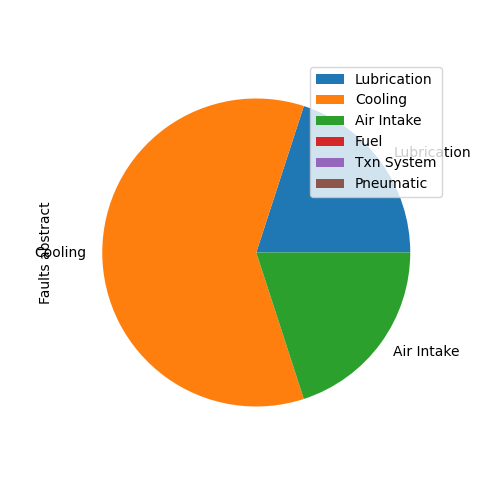
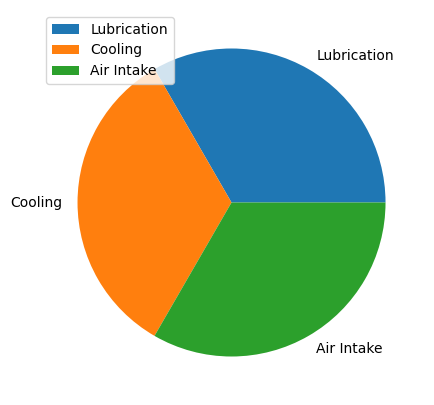
final copy

Changed region(s): [[0.03, 0.0593, 0.9585, 0.8889], [0.1198, 0.0593, 0.1797, 0.2074]]

diff --git a/templates/maps.html b/templates/maps.html
@@ -5,7 +5,11 @@
     <meta charset="UTF-8">
     <meta name="viewport" content="width=device-width, initial-scale=1.0">
     <title>{{ name }}</title>
-
+    <!-- CSS only -->
+    <link href="https://cdn.jsdelivr.net/npm/bootstrap@5.2.0/dist/css/bootstrap.min.css" rel="stylesheet" integrity="sha384-gH2yIJqKdNHPEq0n4Mqa/HGKIhSkIHeL5AyhkYV8i59U5AR6csBvApHHNl/vI1Bx" crossorigin="anonymous">
+    
+    <link rel="stylesheet" href="{{ url_for('static', filename = 'css/style.css')}}">
+    
     <!-- leaflet css  -->
     <link rel="stylesheet" href="https://unpkg.com/leaflet@1.7.1/dist/leaflet.css" />
 
@@ -39,6 +43,14 @@
     <div id="map">
         <div class="leaflet-control coordinate"></div>
     </div>
+
+    <form method='post' action='/maps_view'>
+        <label>Do you add casuality ?</label><br>
+        <input name='LOCATION NAME' type='text' placeholder='Casuality Name' autofocus>
+        <input type='text' name="LANGITUDE" placeholder="LANGITUDE">
+        <input type='text' name="LATITUDE" placeholder="LATITUDE">
+        <input type="submit" value="ADD" class="btn btn-primary">
+    </form>
 </body>
 
 </html>
@@ -51,10 +63,12 @@
 
 
 <script>
-    var api_url = 'http://127.0.0.1:5000/map'
+    var route = 'http://127.0.0.1:5000/';
+    var api_url = route + 'maps'
+    var api_url2 = route + 'maps_view';
 
     // Map initialization 
-    var map = L.map('map').setView([20.5937, 78.9629], 5);
+    var map = L.map('map').setView([28.0229, 73.3119], 5);
     
     //osm layer
     var osm = L.tileLayer('https://{s}.tile.openstreetmap.org/{z}/{x}/{y}.png', {
@@ -85,8 +99,6 @@
         }
         show(data);
     }
-    // Calling that async function
-    getapi(api_url);
     
     // Function to hide the loader
     function hideloader() {
@@ -95,16 +107,23 @@
     function show(data) {
         // Loop to access all rows 
         for (let r of data) {
-            var txt = `
-                <h1>${r[1]}</h1>
-                <p>DET TYPE : ${r[2]}</p>
-                <p>ARMY NO : ${r[5]}</p>
-            `;
-            var marker1 = L.marker([r[3], r[4]]);
-            marker1.bindPopup(txt)
+            var txt = `<h1>${r[1]}</h1>`;
+            if (r.length == 6) {
+                txt += `<p>DET TYPE : ${r[4]}</p>
+                    <p>ARMY NO : ${r[5]}</p>
+                `;
+            }
+
+            console.log(r)
+            var marker1 = L.marker([r[2], r[3]]);
+            marker1.bindPopup(txt).openPopup
             marker1.addTo(map)
         }
-        // Setting innerHTML as tab variable
-        document.getElementById("map").innerHTML = tab;
     }
+    getapi(api_url);
+    getapi(api_url2)
+    map.on('mousemove', function (e) {
+        document.getElementsByClassName('coordinate')[0].innerHTML = 'lat: ' + e.latlng.lat + 'lng: ' + e.latlng.lng;
+        console.log('lat: ' + e.latlng.lat, 'lng: ' + e.latlng.lng)
+    })
 </script>

diff --git a/app.py b/app.py
@@ -264,16 +264,35 @@ def battle_map(name):
         name = (" ".join(name.split('_')).upper() + " MAP")
     )
 
-@app.route('/map')
+@app.route('/maps_view', methods = ("GET", "POST"))
+def map_apis(name = 'maps_view'):
+    headers = ['LOCATION NAME', 'LANGITUDE', 'LATITUDE']
+    if request.method == "POST":
+        print(request.form)
+        add(
+            name, 
+            headers, 
+            request.form
+        )   
+        return redirect('battle_map')
+
+    data = load(
+        table_name = name, 
+        keys = headers, 
+    )
+    print(data)
+    return jsonify(data)
+
+@app.route('/maps')
 def map_api(name = 'dets'):
-    headers = ['DET NAME', 'DET TYPE', 'LONGITUDE', 'LATITUDE', 'ARMY NO']
+    headers = ['DET NAME', 'LONGITUDE', 'LATITUDE', 'DET TYPE', 'ARMY NO']
     data = load(
         table_name = name, 
         keys = headers, 
     )
     
     return jsonify(data)
-
+    
 @app.errorhandler(404)
 def page_not_found(e):
     return render_template('404.html')

diff --git a/data.py b/data.py
@@ -119,6 +119,10 @@ spares = {
     'search_column' : 3,
     'delete_key' : 3,
 }
+maps_view = {
+    'columns' : ['LOCATION NAME', 'LANGITUDE', 'LATITUDE'],
+    'search_column' : 0,
+}
 tables = { 
     "battle_board" : battle_board_table, 
     "record_of_work" : record_of_work, 
@@ -128,6 +132,7 @@ tables = {
     "recurring_fault_db" : recurring_fault_db,
     "dets" : dets,
     'spares' : spares,
+    'maps_view' : maps_view,
 }
 type = { 
     'DET TYPE' : 'select',

diff --git a/lib.py b/lib.py
@@ -242,4 +242,7 @@ def plot_recurring(table_name = 'recurring_fault_db'):
             "Faults abstract" : ans
         }, index = labels)
         plot = df.plot.pie(y = "Faults abstract", figsize = (5, 5))
-        plt.savefig('static/images/result.png')
+        plt.legend(loc="upper left")
+        plt.ylabel('')
+        
+        plt.savefig('static/images/result.png', bbox_inches="tight")
